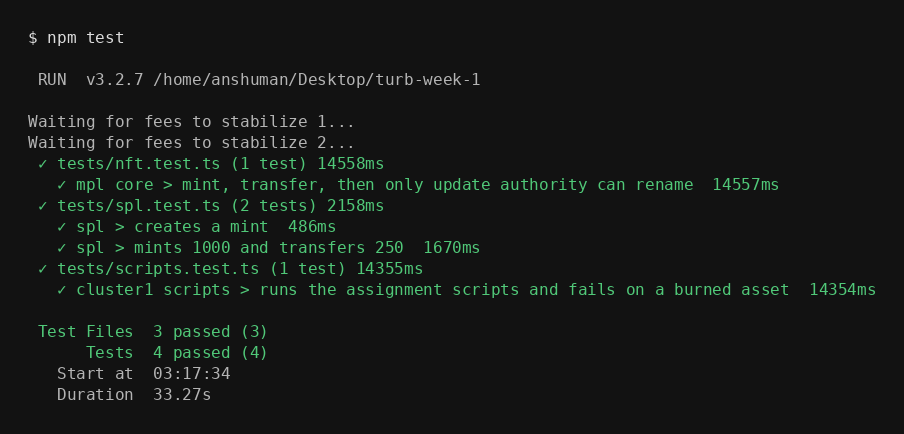
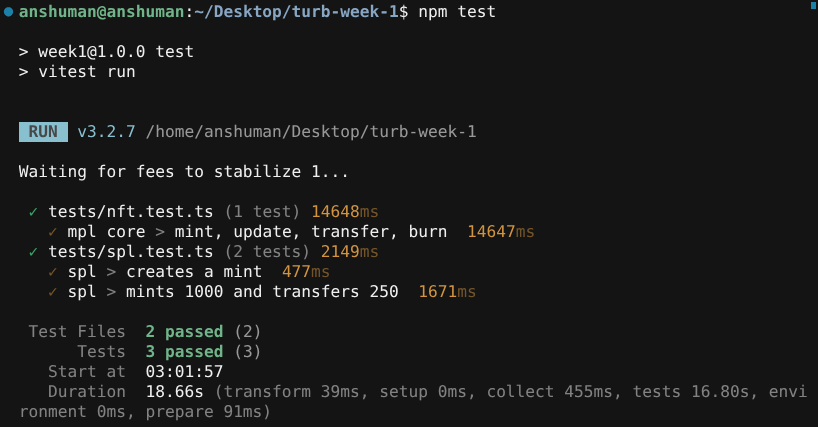
chore: tests

diff --git a/tests/nft.test.ts b/tests/nft.test.ts
@@ -34,14 +34,14 @@ async function fund(kp: Keypair) {
 }
 
 describe("mpl core", () => {
-  const creator = Keypair.generate();
-  const buyer = Keypair.generate();
+  const payer = Keypair.generate();
+  const other = Keypair.generate();
 
-  it("mint, transfer, then only update authority can rename", async () => {
-    await fund(creator);
-    await fund(buyer);
+  it("cant update after transfer", async () => {
+    await fund(payer);
+    await fund(other);
 
-    const umi = umiFor(creator);
+    const umi = umiFor(payer);
     const asset = generateSigner(umi);
 
     await create(umi, {
@@ -51,20 +51,20 @@ describe("mpl core", () => {
     }).sendAndConfirm(umi);
 
     let nft = await fetchAsset(umi, asset.publicKey);
-    expect(nft.owner).toBe(creator.publicKey.toBase58());
+    expect(nft.owner).toBe(payer.publicKey.toBase58());
 
     await transfer(umi, {
       asset: nft,
-      newOwner: publicKey(buyer.publicKey.toBase58()),
+      newOwner: publicKey(other.publicKey.toBase58()),
     }).sendAndConfirm(umi);
 
     nft = await fetchAsset(umi, asset.publicKey);
-    expect(nft.owner).toBe(buyer.publicKey.toBase58());
+    expect(nft.owner).toBe(other.publicKey.toBase58());
 
-    const buyerUmi = umiFor(buyer);
-    nft = await fetchAsset(buyerUmi, asset.publicKey);
+    const otherUmi = umiFor(other);
+    nft = await fetchAsset(otherUmi, asset.publicKey);
     await expect(
-      update(buyerUmi, { asset: nft, name: "stolen" }).sendAndConfirm(buyerUmi)
+      update(otherUmi, { asset: nft, name: "nope" }).sendAndConfirm(otherUmi)
     ).rejects.toThrow();
 
     nft = await fetchAsset(umi, asset.publicKey);
@@ -76,10 +76,10 @@ describe("mpl core", () => {
 
     nft = await fetchAsset(umi, asset.publicKey);
     expect(nft.name).toBe("week1 v2");
-    expect(nft.owner).toBe(buyer.publicKey.toBase58());
+    expect(nft.owner).toBe(other.publicKey.toBase58());
 
-    nft = await fetchAsset(buyerUmi, asset.publicKey);
-    await burn(buyerUmi, { asset: nft }).sendAndConfirm(buyerUmi);
+    nft = await fetchAsset(otherUmi, asset.publicKey);
+    await burn(otherUmi, { asset: nft }).sendAndConfirm(otherUmi);
 
     const info = await connection.getAccountInfo(new PublicKey(asset.publicKey));
     expect(info).not.toBeNull();

diff --git a/ts/cluster1/nft_burn.ts b/ts/cluster1/nft_burn.ts
@@ -10,7 +10,7 @@ import { airdrop, connection, fail, getUmi, load } from "./helper.js";
 const dir = path.dirname(fileURLToPath(import.meta.url));
 const assetAddress = publicKey(load("asset.txt"));
 
-// burn has to be signed by the current owner, which is the keypair from nft_transfer
+// current owner is the keypair nft_transfer wrote
 const owner = Keypair.fromSecretKey(
   Uint8Array.from(JSON.parse(fs.readFileSync(path.join(dir, "new_owner.txt"), "utf8")))
 );
@@ -24,9 +24,8 @@ const umi = getUmi(owner);
     let result = await burn(umi, { asset }).sendAndConfirm(umi);
     console.log("burned:", bs58.encode(result.signature));
 
-    // core doesn't fully close the account — it leaves a 1-byte tombstone
     const info = await connection.getAccountInfo(new PublicKey(assetAddress));
-    console.log("tombstone bytes:", info?.data.length, "lamports left:", info?.lamports);
+    console.log("account size:", info?.data.length, "lamports:", info?.lamports);
   } catch (error) {
     fail(error);
   }

diff --git a/ts/cluster1/helper.ts b/ts/cluster1/helper.ts
@@ -24,7 +24,7 @@ export const connection = new Connection(RPC, "confirmed");
 export function loadWallet() {
   const walletPath = path.join(dir, "wallet.json");
   if (!fs.existsSync(walletPath)) {
-    throw new Error("missing ts/cluster1/wallet.json — copy your id.json there");
+    throw new Error("missing ts/cluster1/wallet.json, copy your id.json there");
   }
   const secret = JSON.parse(fs.readFileSync(walletPath, "utf8"));
   return Keypair.fromSecretKey(Uint8Array.from(secret));
@@ -56,7 +56,7 @@ export async function airdrop(kp: Keypair) {
   throw new Error("airdrop did not land");
 }
 
-// works on localnet and devnet — new owner needs SOL to burn later
+// send a bit of sol, dest needs it to sign later
 export async function sendSol(from: Keypair, to: PublicKey, lamports = 10_000_000) {
   const tx = new Transaction().add(
     SystemProgram.transfer({

diff --git a/tests/scripts.test.ts b/tests/scripts.test.ts
@@ -30,7 +30,7 @@ async function run(script: string) {
 }
 
 describe("cluster1 scripts", () => {
-  it("runs the assignment scripts and fails on a burned asset", async () => {
+  it("scripts work, update after burn exits 1", async () => {
     const kp = Keypair.generate();
     await fund(kp);
     fs.writeFileSync(

diff --git a/ts/cluster1/nft_transfer.ts b/ts/cluster1/nft_transfer.ts
@@ -13,7 +13,6 @@ const assetAddress = publicKey(load("asset.txt"));
     await airdrop(keypair);
 
     const to = Keypair.generate();
-    // so burn works on devnet too, not just local airdrop
     await sendSol(keypair, to.publicKey);
 
     const asset = await fetchAsset(umi, assetAddress);

diff --git a/README.md b/README.md
@@ -1,6 +1,6 @@
 # Week 1
 
-SPL token + MPL Core NFT.
+SPL token + mpl core nft.
 
 ```
 cp ~/.config/solana/id.json ts/cluster1/wallet.json
@@ -15,9 +15,9 @@ npm run spl_mint
 npm run spl_transfer
 ```
 
-1000 tokens (6 decimals), then 250 to another wallet. Recipient key is saved to `spl_to.txt`.
+mint 1000 (6 decimals), send 250. dest keypair goes in `spl_to.txt`.
 
-## NFT (MPL Core)
+## NFT
 
 ```
 npm run nft_mint
@@ -26,21 +26,19 @@ npm run nft_transfer
 npm run nft_burn
 ```
 
-`nft_transfer` sends a bit of SOL with the NFT so the new owner can pay for burn (needed on **devnet** — local airdrop doesn't run there).
+`nft_transfer` also sends a little SOL so the new owner can pay the burn fee.
 
-Burn does not close the account fully. Core leaves a 1-byte tombstone and keeps some lamports. That's the program, not the script.
-
-Devnet:
+devnet:
 
 ```
 RPC_URL=https://api.devnet.solana.com npm run spl_init
 ```
 
-same prefix for the rest. Wallet needs SOL.
+same for the other scripts. need SOL on the wallet.
 
 ## Tests
 
-Needs `solana-test-validator`. First run dumps mpl core into `programs/mpl_core.so`.
+needs `solana-test-validator`. first `npm test` dumps mpl core to `programs/mpl_core.so`.
 
 ```
 npm test
